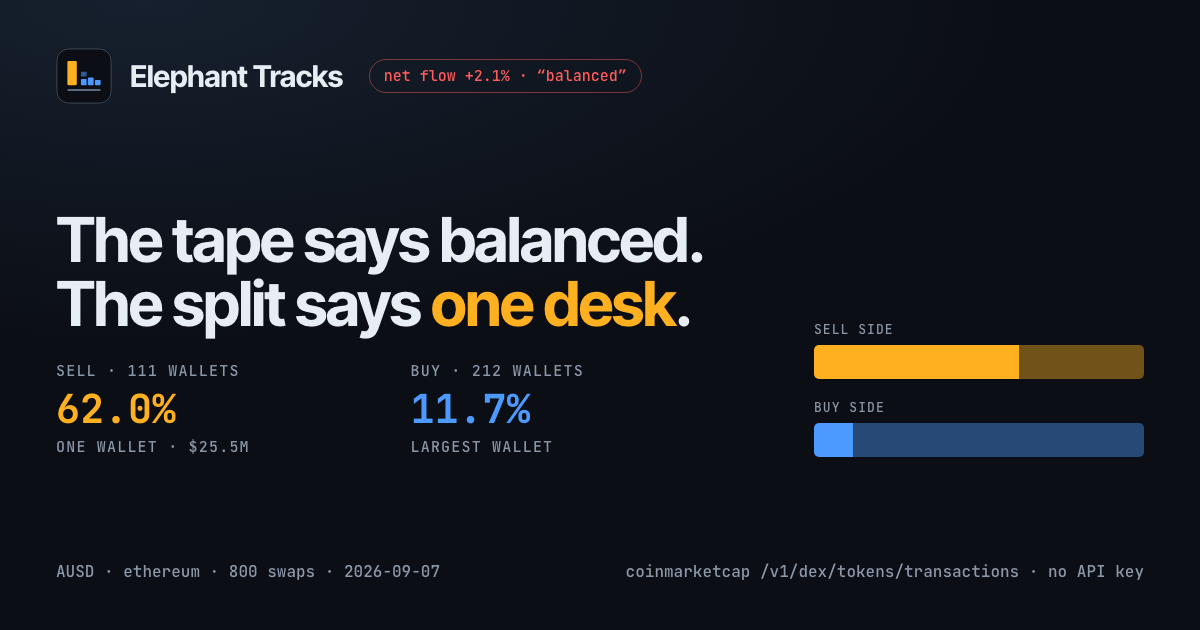
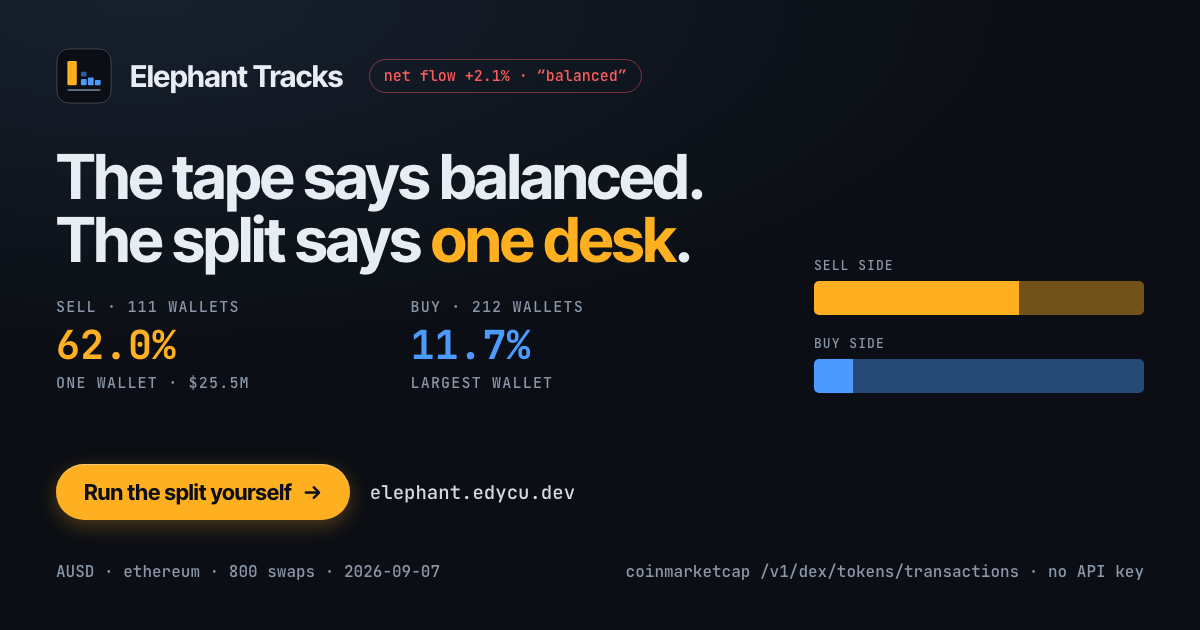
fix(card): a call to action on the card, titles inside their limits
Restores automatic semantic versioning. 33 of the 38 release workflows in this
tree bump from Angular-convention commits on push to main, and the house tooling
documents that as the pattern; replacing it with a tag-driven workflow made this
repo the outlier on my judgement rather than anyone's decision. The v1.0.0 reset
is permanent either way — the bump reads the last tag, so releases from here are
1.x and nothing sends it back to 0.x.

The card audit found five real faults, all in the same place: the first
impression.

  · The image had no call to action. At feed-thumbnail width the body copy is
    already illegible and only a filled shape with a shadow and an arrow still
    reads, so the card now carries one, beside the bare domain. It cannot be
    clicked — it is persuasion, not navigation — and the promise is one the page
    keeps: the split really does run keyless in one command.
  · title 76, og:title 77, twitter:title 77 — all clipped in feeds and in search.
    Now 52, well inside the 60 that survives both. The hook survived the cut; it
    was "the tape says balanced" that went, and it is still the first line of the
    page itself.
  · The deck's twitter:description was 66 characters, so the card was showing
    half a sentence and blank space. Now 123.

The ?v= cache-buster is the sha1 of the image bytes, so it moved from c75fdd19 to
33b3d0df on its own — the fix reaches links already posted rather than sitting
behind a cache that nobody thinks to check.
[…]

Changed region(s): [[0.0308, 0.2413, 0.5858, 0.8444], [0.6783, 0.3921, 0.9558, 0.7238]]

diff --git a/site/index.html b/site/index.html
@@ -3,7 +3,7 @@
 <head>
 <meta charset="utf-8">
 <meta name="viewport" content="width=device-width, initial-scale=1">
-<title>Elephant Tracks — the tape says balanced; one wallet is 62% of the sell side</title>
+<title>Elephant Tracks — one wallet is 62% of the sell side</title>
 <meta name="description" content="Elephant Tracks splits DEX swaps by maker, keyless, on CoinMarketCap's API. AUSD read a balanced +2.1% while one wallet was 62.0% of the sell side.">
 <meta name="author" content="Edy Cu">
 <link rel="canonical" href="https://elephant.edycu.dev/">
@@ -12,18 +12,18 @@
 <meta property="og:type" content="website">
 <meta property="og:site_name" content="Elephant Tracks">
 <meta property="og:url" content="https://elephant.edycu.dev/">
-<meta property="og:title" content="Elephant Tracks — the tape says balanced. One wallet is 62% of the sell side.">
+<meta property="og:title" content="Elephant Tracks — one wallet is 62% of the sell side">
 <meta property="og:description" content="Net flow read +2.1%; one wallet was 62.0% of the sell side. Split by maker, keyless, from CoinMarketCap's DEX API.">
-<meta property="og:image" content="https://elephant.edycu.dev/assets/og-image.png?v=c75fdd19">
+<meta property="og:image" content="https://elephant.edycu.dev/assets/og-image.png?v=33b3d0df">
 <meta property="og:image:width" content="1200">
 <meta property="og:image:height" content="630">
 <meta property="og:image:alt" content="Elephant Tracks — net flow reads +2.1%, “balanced”, while one wallet is 62.0% of AUSD’s sell side against 212 distinct buying wallets. Two bars: a solid amber segment filling most of the sell side, a narrow blue one on the buy side.">
 <meta name="twitter:card" content="summary_large_image">
 <meta name="twitter:site" content="@edycutjong">
 <meta name="twitter:creator" content="@edycutjong">
-<meta name="twitter:title" content="Elephant Tracks — the tape says balanced. One wallet is 62% of the sell side.">
+<meta name="twitter:title" content="Elephant Tracks — one wallet is 62% of the sell side">
 <meta name="twitter:description" content="Net flow is a sum, and summing is lossy. Split the swaps by maker. Keyless, from CoinMarketCap's DEX API.">
-<meta name="twitter:image" content="https://elephant.edycu.dev/assets/og-image.png?v=c75fdd19">
+<meta name="twitter:image" content="https://elephant.edycu.dev/assets/og-image.png?v=33b3d0df">
 <!-- Fonts are self-hosted latin subsets (SIL Open Font License 1.1), not fetched from
      fonts.googleapis.com. Same-origin removes a third-party DNS + TLS handshake from the
      critical path, and the preloads start the download during head parse rather than after

diff --git a/scripts/site_templates/landing.html b/scripts/site_templates/landing.html
@@ -3,7 +3,7 @@
 <head>
 <meta charset="utf-8">
 <meta name="viewport" content="width=device-width, initial-scale=1">
-<title>Elephant Tracks — the tape says balanced; one wallet is {{ausd.sell_top_share_int}}% of the sell side</title>
+<title>Elephant Tracks — one wallet is {{ausd.sell_top_share_int}}% of the sell side</title>
 <meta name="description" content="Elephant Tracks splits DEX swaps by maker, keyless, on CoinMarketCap's API. AUSD read a balanced {{ausd.net}} while one wallet was {{ausd.sell_top_share}} of the sell side.">
 <meta name="author" content="{{author}}">
 <link rel="canonical" href="{{site}}/">
@@ -12,7 +12,7 @@
 <meta property="og:type" content="website">
 <meta property="og:site_name" content="Elephant Tracks">
 <meta property="og:url" content="{{site}}/">
-<meta property="og:title" content="Elephant Tracks — the tape says balanced. One wallet is {{ausd.sell_top_share_int}}% of the sell side.">
+<meta property="og:title" content="Elephant Tracks — one wallet is {{ausd.sell_top_share_int}}% of the sell side">
 <meta property="og:description" content="Net flow read {{ausd.net}}; one wallet was {{ausd.sell_top_share}} of the sell side. Split by maker, keyless, from CoinMarketCap's DEX API.">
 <meta property="og:image" content="{{site}}/assets/og-image.png?v={{og.v}}">
 <meta property="og:image:width" content="{{og.w}}">
@@ -21,7 +21,7 @@
 <meta name="twitter:card" content="summary_large_image">
 <meta name="twitter:site" content="{{x_handle}}">
 <meta name="twitter:creator" content="{{x_handle}}">
-<meta name="twitter:title" content="Elephant Tracks — the tape says balanced. One wallet is {{ausd.sell_top_share_int}}% of the sell side.">
+<meta name="twitter:title" content="Elephant Tracks — one wallet is {{ausd.sell_top_share_int}}% of the sell side">
 <meta name="twitter:description" content="Net flow is a sum, and summing is lossy. Split the swaps by maker. Keyless, from CoinMarketCap's DEX API.">
 <meta name="twitter:image" content="{{site}}/assets/og-image.png?v={{og.v}}">
 <!-- Fonts are self-hosted latin subsets (SIL Open Font License 1.1), not fetched from

diff --git a/site/pitch/index.html b/site/pitch/index.html
@@ -20,7 +20,7 @@
 <meta property="og:url" content="https://elephant.edycu.dev/pitch/">
 <meta property="og:title" content="Elephant Tracks — pitch deck">
 <meta property="og:description" content="One wallet was 62.0% of AUSD's sell side while net flow read +2.1%. Eleven slides, every number from a keyless run.">
-<meta property="og:image" content="https://elephant.edycu.dev/assets/og-image.png?v=c75fdd19">
+<meta property="og:image" content="https://elephant.edycu.dev/assets/og-image.png?v=33b3d0df">
 <meta property="og:image:width" content="1200">
 <meta property="og:image:height" content="630">
 <meta property="og:image:alt" content="Elephant Tracks — net flow reads +2.1%, “balanced”, while one wallet is 62.0% of AUSD’s sell side against 212 distinct buying wallets. Two bars: a solid amber segment filling most of the sell side, a narrow blue one on the buy side.">
@@ -28,8 +28,8 @@
 <meta name="twitter:site" content="@edycutjong">
 <meta name="twitter:creator" content="@edycutjong">
 <meta name="twitter:title" content="Elephant Tracks — pitch deck">
-<meta name="twitter:description" content="Net flow is a sum, and summing is lossy. Split the swaps by maker.">
-<meta name="twitter:image" content="https://elephant.edycu.dev/assets/og-image.png?v=c75fdd19">
+<meta name="twitter:description" content="Net flow is a sum, and summing is lossy. Split the swaps by maker: one wallet was 62.0% of AUSD's sell side. Eleven slides.">
+<meta name="twitter:image" content="https://elephant.edycu.dev/assets/og-image.png?v=33b3d0df">
 <!-- Fonts are self-hosted latin subsets (SIL Open Font License 1.1), not fetched from
      fonts.googleapis.com. Same-origin removes a third-party DNS + TLS handshake from the
      critical path, and the preloads start the download during head parse rather than after

diff --git a/scripts/site_templates/deck.html b/scripts/site_templates/deck.html
@@ -28,7 +28,7 @@
 <meta name="twitter:site" content="{{x_handle}}">
 <meta name="twitter:creator" content="{{x_handle}}">
 <meta name="twitter:title" content="Elephant Tracks — pitch deck">
-<meta name="twitter:description" content="Net flow is a sum, and summing is lossy. Split the swaps by maker.">
+<meta name="twitter:description" content="Net flow is a sum, and summing is lossy. Split the swaps by maker: one wallet was 62.0% of AUSD's sell side. Eleven slides.">
 <meta name="twitter:image" content="{{site}}/assets/og-image.png?v={{og.v}}">
 <!-- Fonts are self-hosted latin subsets (SIL Open Font License 1.1), not fetched from
      fonts.googleapis.com. Same-origin removes a third-party DNS + TLS handshake from the

diff --git a/README.md b/README.md
@@ -1,10 +1,12 @@
 <div align="center">
 
+<img src="docs/assets/icon.svg" alt="Elephant Tracks icon" width="144">
+
 <h1>Elephant Tracks 🐘</h1>
 
-<img src="docs/assets/hero.svg" alt="Elephant Tracks — net flow reads +2.1%, “balanced”, while one wallet is 62.0% of AUSD’s sell side against 212 buying wallets." width="900">
-
 <p><em>The tape says balanced. The split says one wallet and a crowd.</em></p>
+
+<img src="docs/assets/hero.svg" alt="Elephant Tracks — net flow reads +2.1% while one wallet is 62.0% of AUSD’s sell side." width="900">
 
 <p>Net flow is a sum, and summing is lossy. Elephant Tracks splits the tape back apart —
 per side, how much of it is <strong>one wallet</strong> — from real swaps and their maker addresses.</p>
